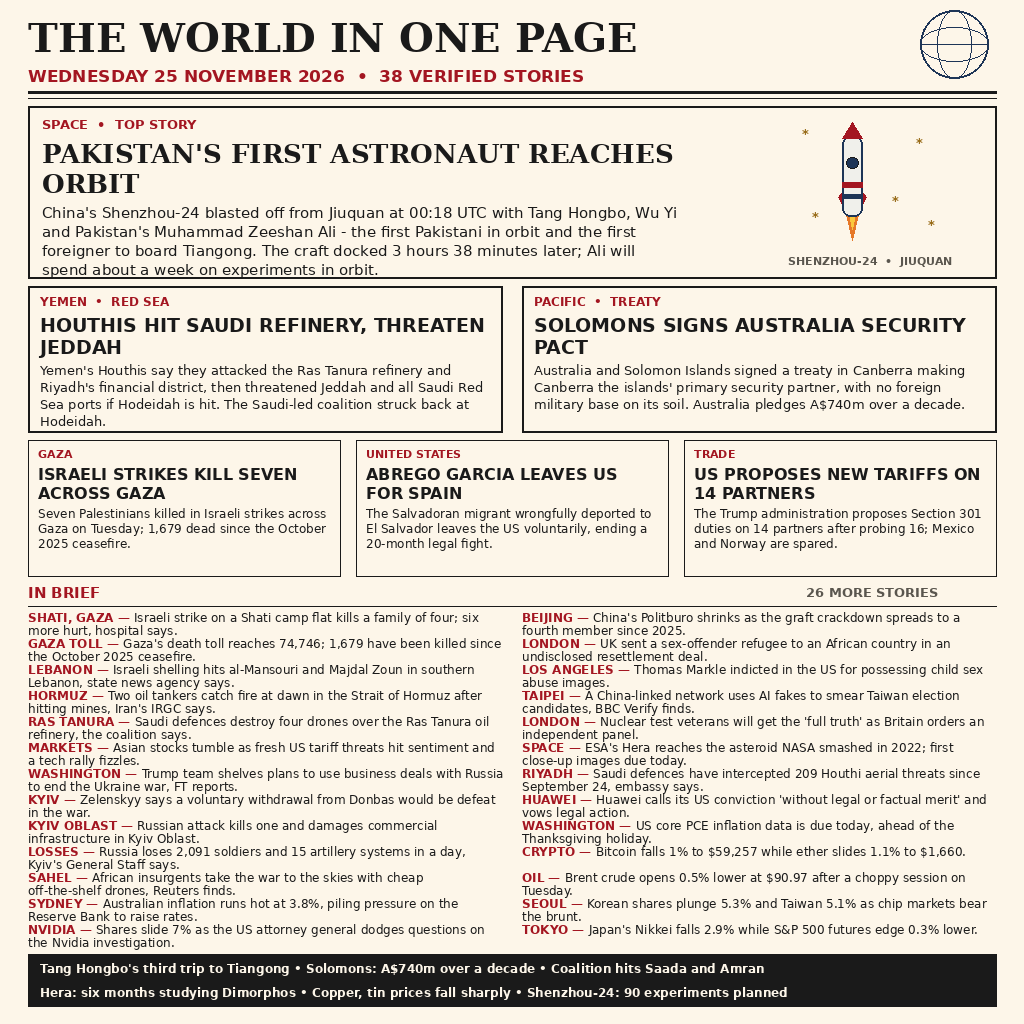
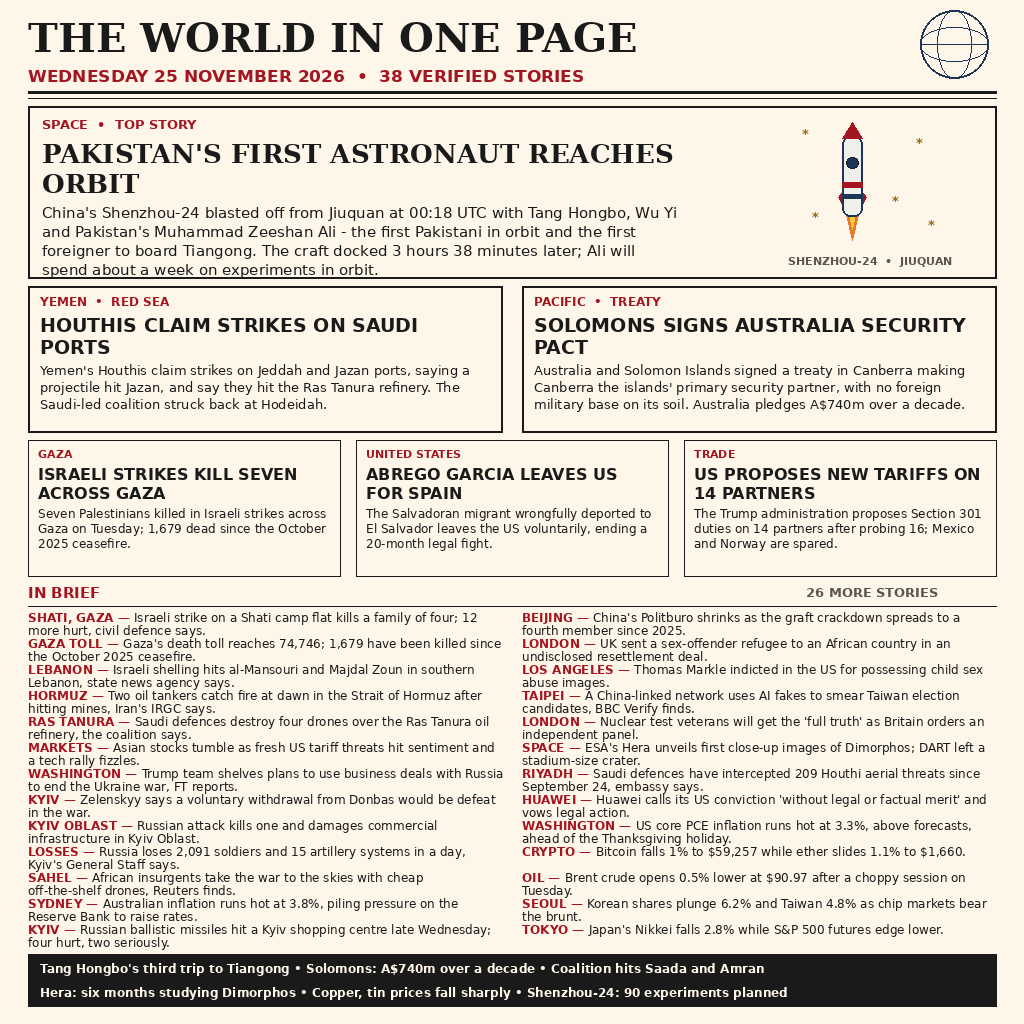
news-image-20261125 r5: fix Shati count (12, civil defence), swap Nvidia (24 Nov) for late Kyiv mall missile strike, Hera first images, PCE 3.3% print, Seoul/Tokyo closes, Houthi port-strike claims

diff --git a/draw.py b/draw.py
@@ -57,11 +57,11 @@ HERO = {
 MEDIUM = [
     {
         "kicker": "YEMEN  •  RED SEA",
-        "headline": "HOUTHIS HIT SAUDI REFINERY, THREATEN JEDDAH",
-        "body": ("Yemen's Houthis say they attacked the Ras Tanura refinery "
-                 "and Riyadh's financial district, then threatened Jeddah "
-                 "and all Saudi Red Sea ports if Hodeidah is hit. The "
-                 "Saudi-led coalition struck back at Hodeidah."),
+        "headline": "HOUTHIS CLAIM STRIKES ON SAUDI PORTS",
+        "body": ("Yemen's Houthis claim strikes on Jeddah and Jazan ports, "
+                 "saying a projectile hit Jazan, and say they hit the Ras "
+                 "Tanura refinery. The Saudi-led coalition struck back "
+                 "at Hodeidah."),
     },
     {
         "kicker": "PACIFIC  •  TREATY",
@@ -99,7 +99,7 @@ SMALL = [
 # Each brief: kicker + one sentence, kept short enough to wrap to 2 lines
 # at 12pt in a 462px column (verified by the layout assert below).
 BRIEFS = [
-    ("SHATI, GAZA", "Israeli strike on a Shati camp flat kills a family of four; six more hurt, hospital says."),
+    ("SHATI, GAZA", "Israeli strike on a Shati camp flat kills a family of four; 12 more hurt, civil defence says."),
     ("GAZA TOLL", "Gaza's death toll reaches 74,746; 1,679 have been killed since the October 2025 ceasefire."),
     ("LEBANON", "Israeli shelling hits al-Mansouri and Majdal Zoun in southern Lebanon, state news agency says."),
     ("HORMUZ", "Two oil tankers catch fire at dawn in the Strait of Hormuz after hitting mines, Iran's IRGC says."),
@@ -111,20 +111,20 @@ BRIEFS = [
     ("LOSSES", "Russia loses 2,091 soldiers and 15 artillery systems in a day, Kyiv's General Staff says."),
     ("SAHEL", "African insurgents take the war to the skies with cheap off-the-shelf drones, Reuters finds."),
     ("SYDNEY", "Australian inflation runs hot at 3.8%, piling pressure on the Reserve Bank to raise rates."),
-    ("NVIDIA", "Shares slide 7% as the US attorney general dodges questions on the Nvidia investigation."),
+    ("KYIV", "Russian ballistic missiles hit a Kyiv shopping centre late Wednesday; four hurt, two seriously."),
     ("BEIJING", "China's Politburo shrinks as the graft crackdown spreads to a fourth member since 2025."),
     ("LONDON", "UK sent a sex-offender refugee to an African country in an undisclosed resettlement deal."),
     ("LOS ANGELES", "Thomas Markle indicted in the US for possessing child sex abuse images."),
     ("TAIPEI", "A China-linked network uses AI fakes to smear Taiwan election candidates, BBC Verify finds."),
     ("LONDON", "Nuclear test veterans will get the 'full truth' as Britain orders an independent panel."),
-    ("SPACE", "ESA's Hera reaches the asteroid NASA smashed in 2022; first close-up images due today."),
+    ("SPACE", "ESA's Hera unveils first close-up images of Dimorphos; DART left a stadium-size crater."),
     ("RIYADH", "Saudi defences have intercepted 209 Houthi aerial threats since September 24, embassy says."),
     ("HUAWEI", "Huawei calls its US conviction 'without legal or factual merit' and vows legal action."),
-    ("WASHINGTON", "US core PCE inflation data is due today, ahead of the Thanksgiving holiday."),
+    ("WASHINGTON", "US core PCE inflation runs hot at 3.3%, above forecasts, ahead of the Thanksgiving holiday."),
     ("CRYPTO", "Bitcoin falls 1% to $59,257 while ether slides 1.1% to $1,660."),
     ("OIL", "Brent crude opens 0.5% lower at $90.97 after a choppy session on Tuesday."),
-    ("SEOUL", "Korean shares plunge 5.3% and Taiwan 5.1% as chip markets bear the brunt."),
-    ("TOKYO", "Japan's Nikkei falls 2.9% while S&P 500 futures edge 0.3% lower."),
+    ("SEOUL", "Korean shares plunge 6.2% and Taiwan 4.8% as chip markets bear the brunt."),
+    ("TOKYO", "Japan's Nikkei falls 2.8% while S&P 500 futures edge lower."),
 ]
 
 TICKER = [
